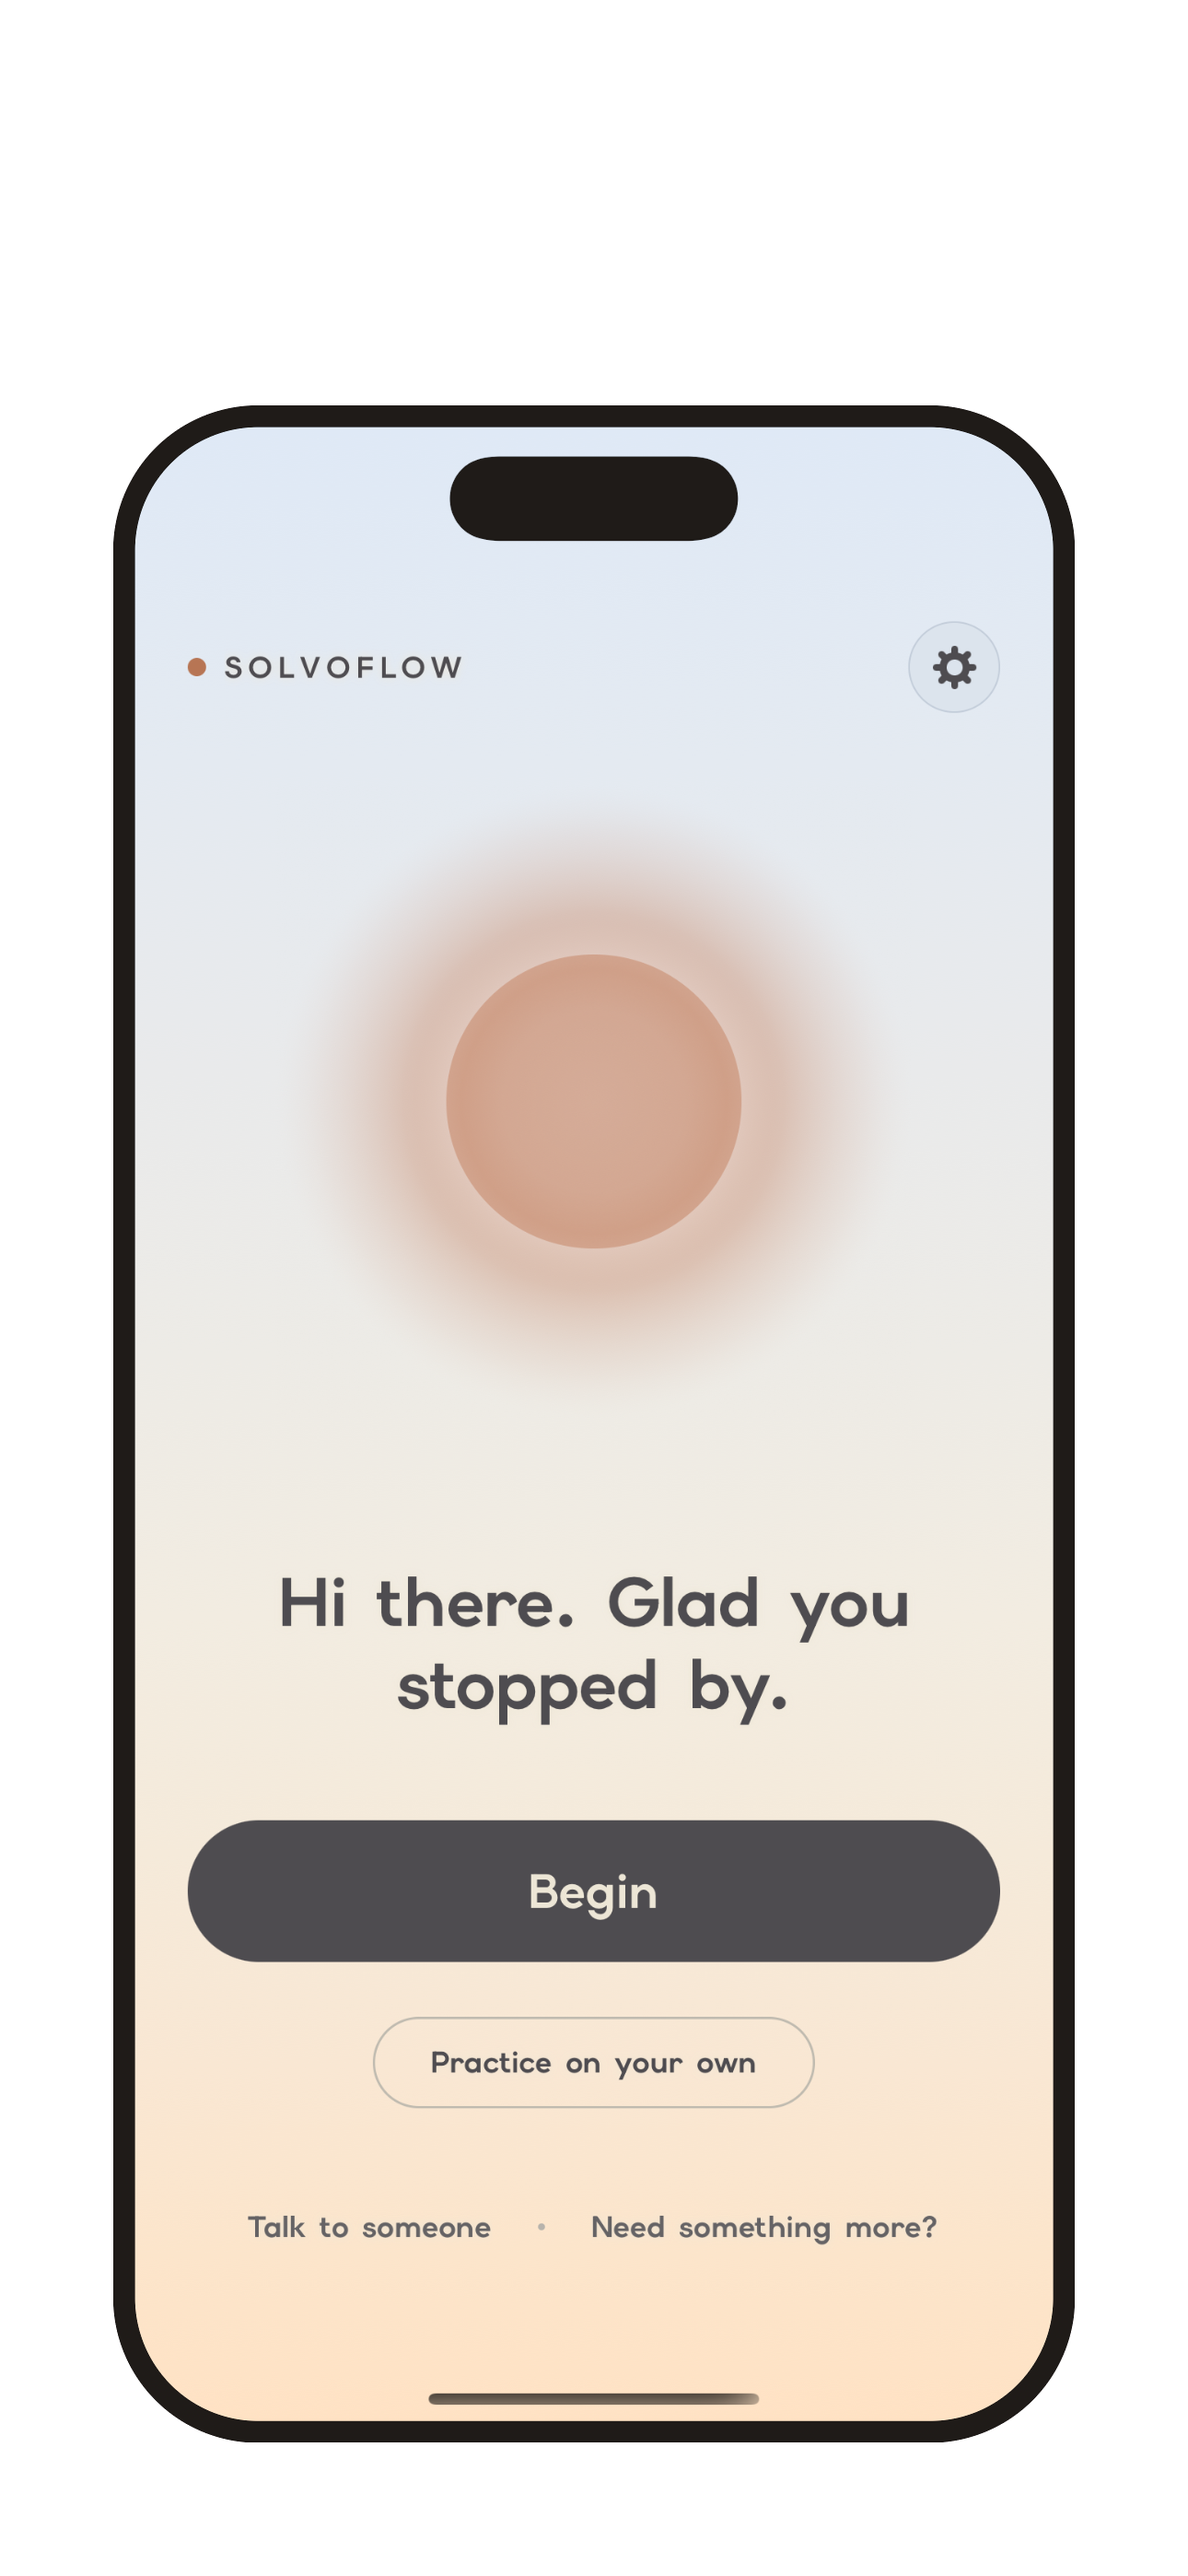
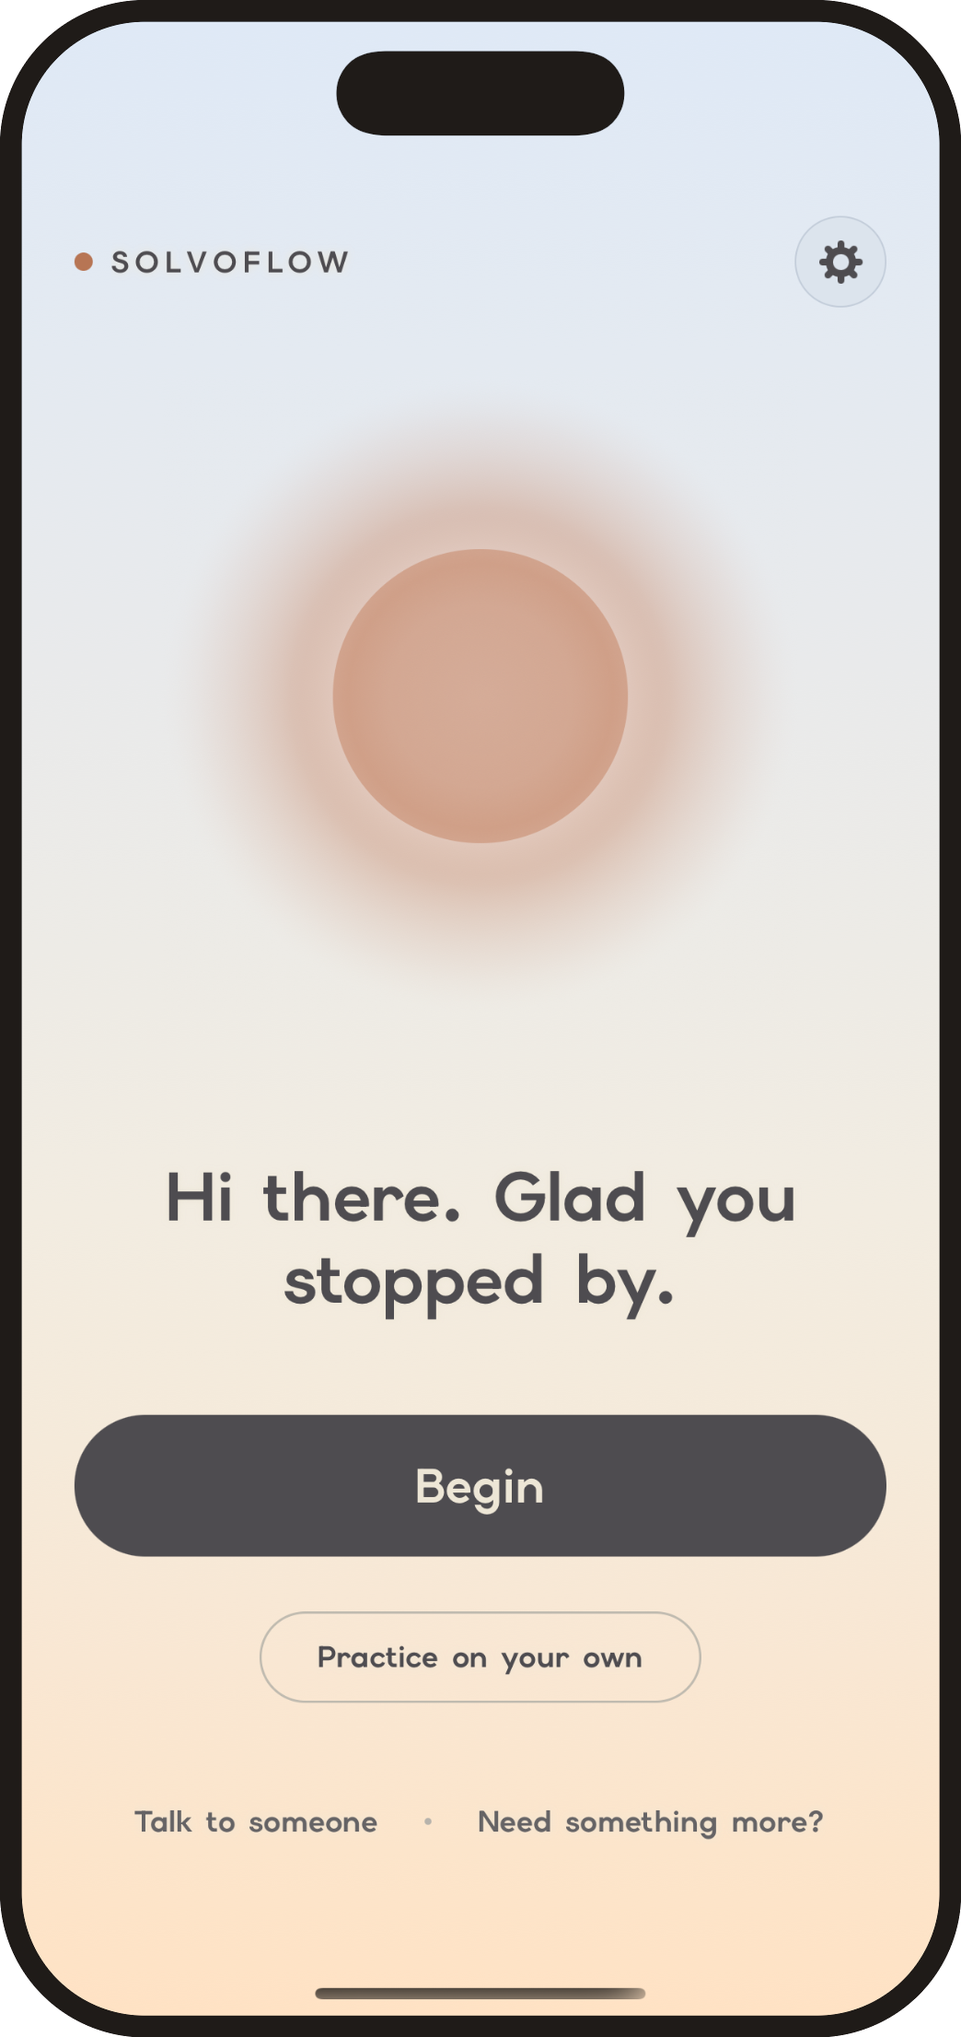
Fixing Landing section

diff --git a/index.html b/index.html
@@ -100,7 +100,7 @@
           <div class="phone-stage">
             <span class="breath-ring ring-1" aria-hidden="true"></span>
             <span class="breath-ring ring-2" aria-hidden="true"></span>
-            <img src="assets/app-render.png" width="1290" height="2796"
+            <img src="assets/app-render.png" width="1044" height="2211"
                  alt="The Solvoflow app on a phone: a soft glowing circle above the words “You&rsquo;re here. Let&rsquo;s get you back to steady.”, a Begin button, and a quieter “I&rsquo;m okay, just want to relax” link.">
           </div>
         </div>

diff --git a/styles/style.css b/styles/style.css
@@ -682,7 +682,7 @@ main > section > * {
   position: relative;
   display: block;
   width: 100%;
-  max-width: 400px;
+  max-width: 324px;
   height: auto;
   margin-inline: auto;
 }
@@ -1490,6 +1490,12 @@ main > section > * {
   :root {
     --section-y: var(--space-16);
     --gutter: var(--space-8);
+  }
+
+  /* the hero sits just under the bar instead of a full --section-y down, so
+     the phone and headline are on screen without a scroll */
+  .intro-section {
+    padding-top: var(--space-10);
   }
 
   .contact-panel {
